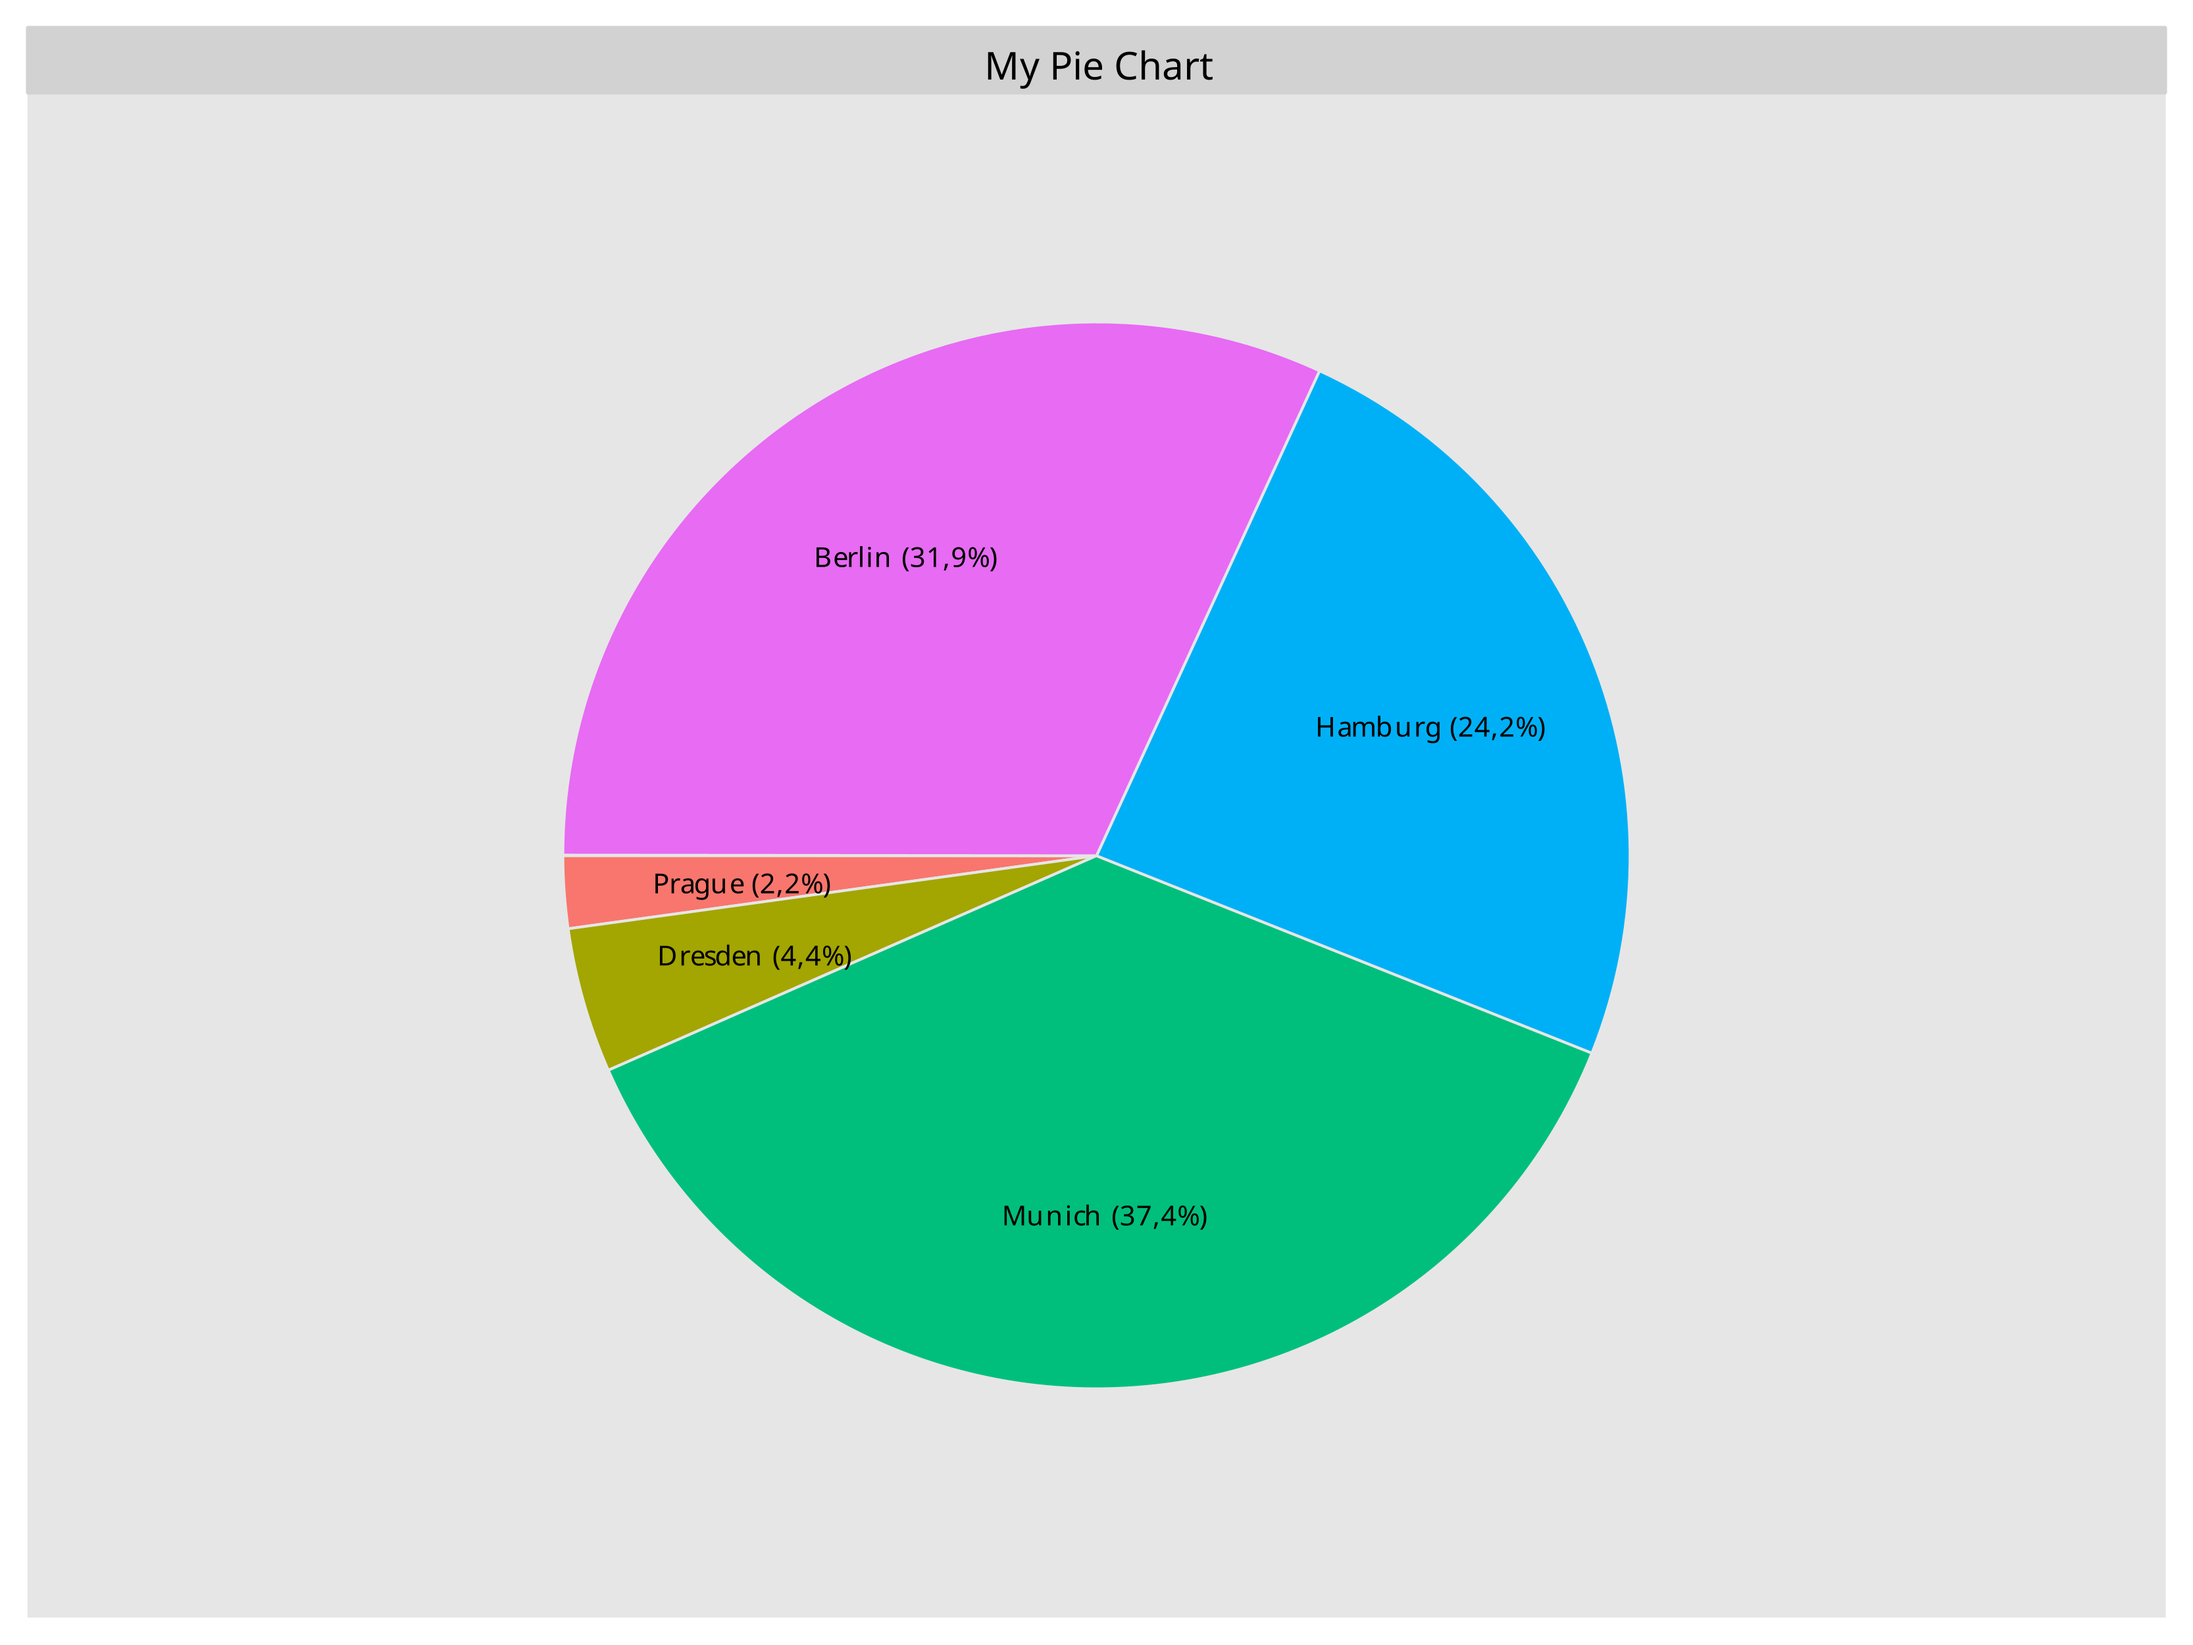
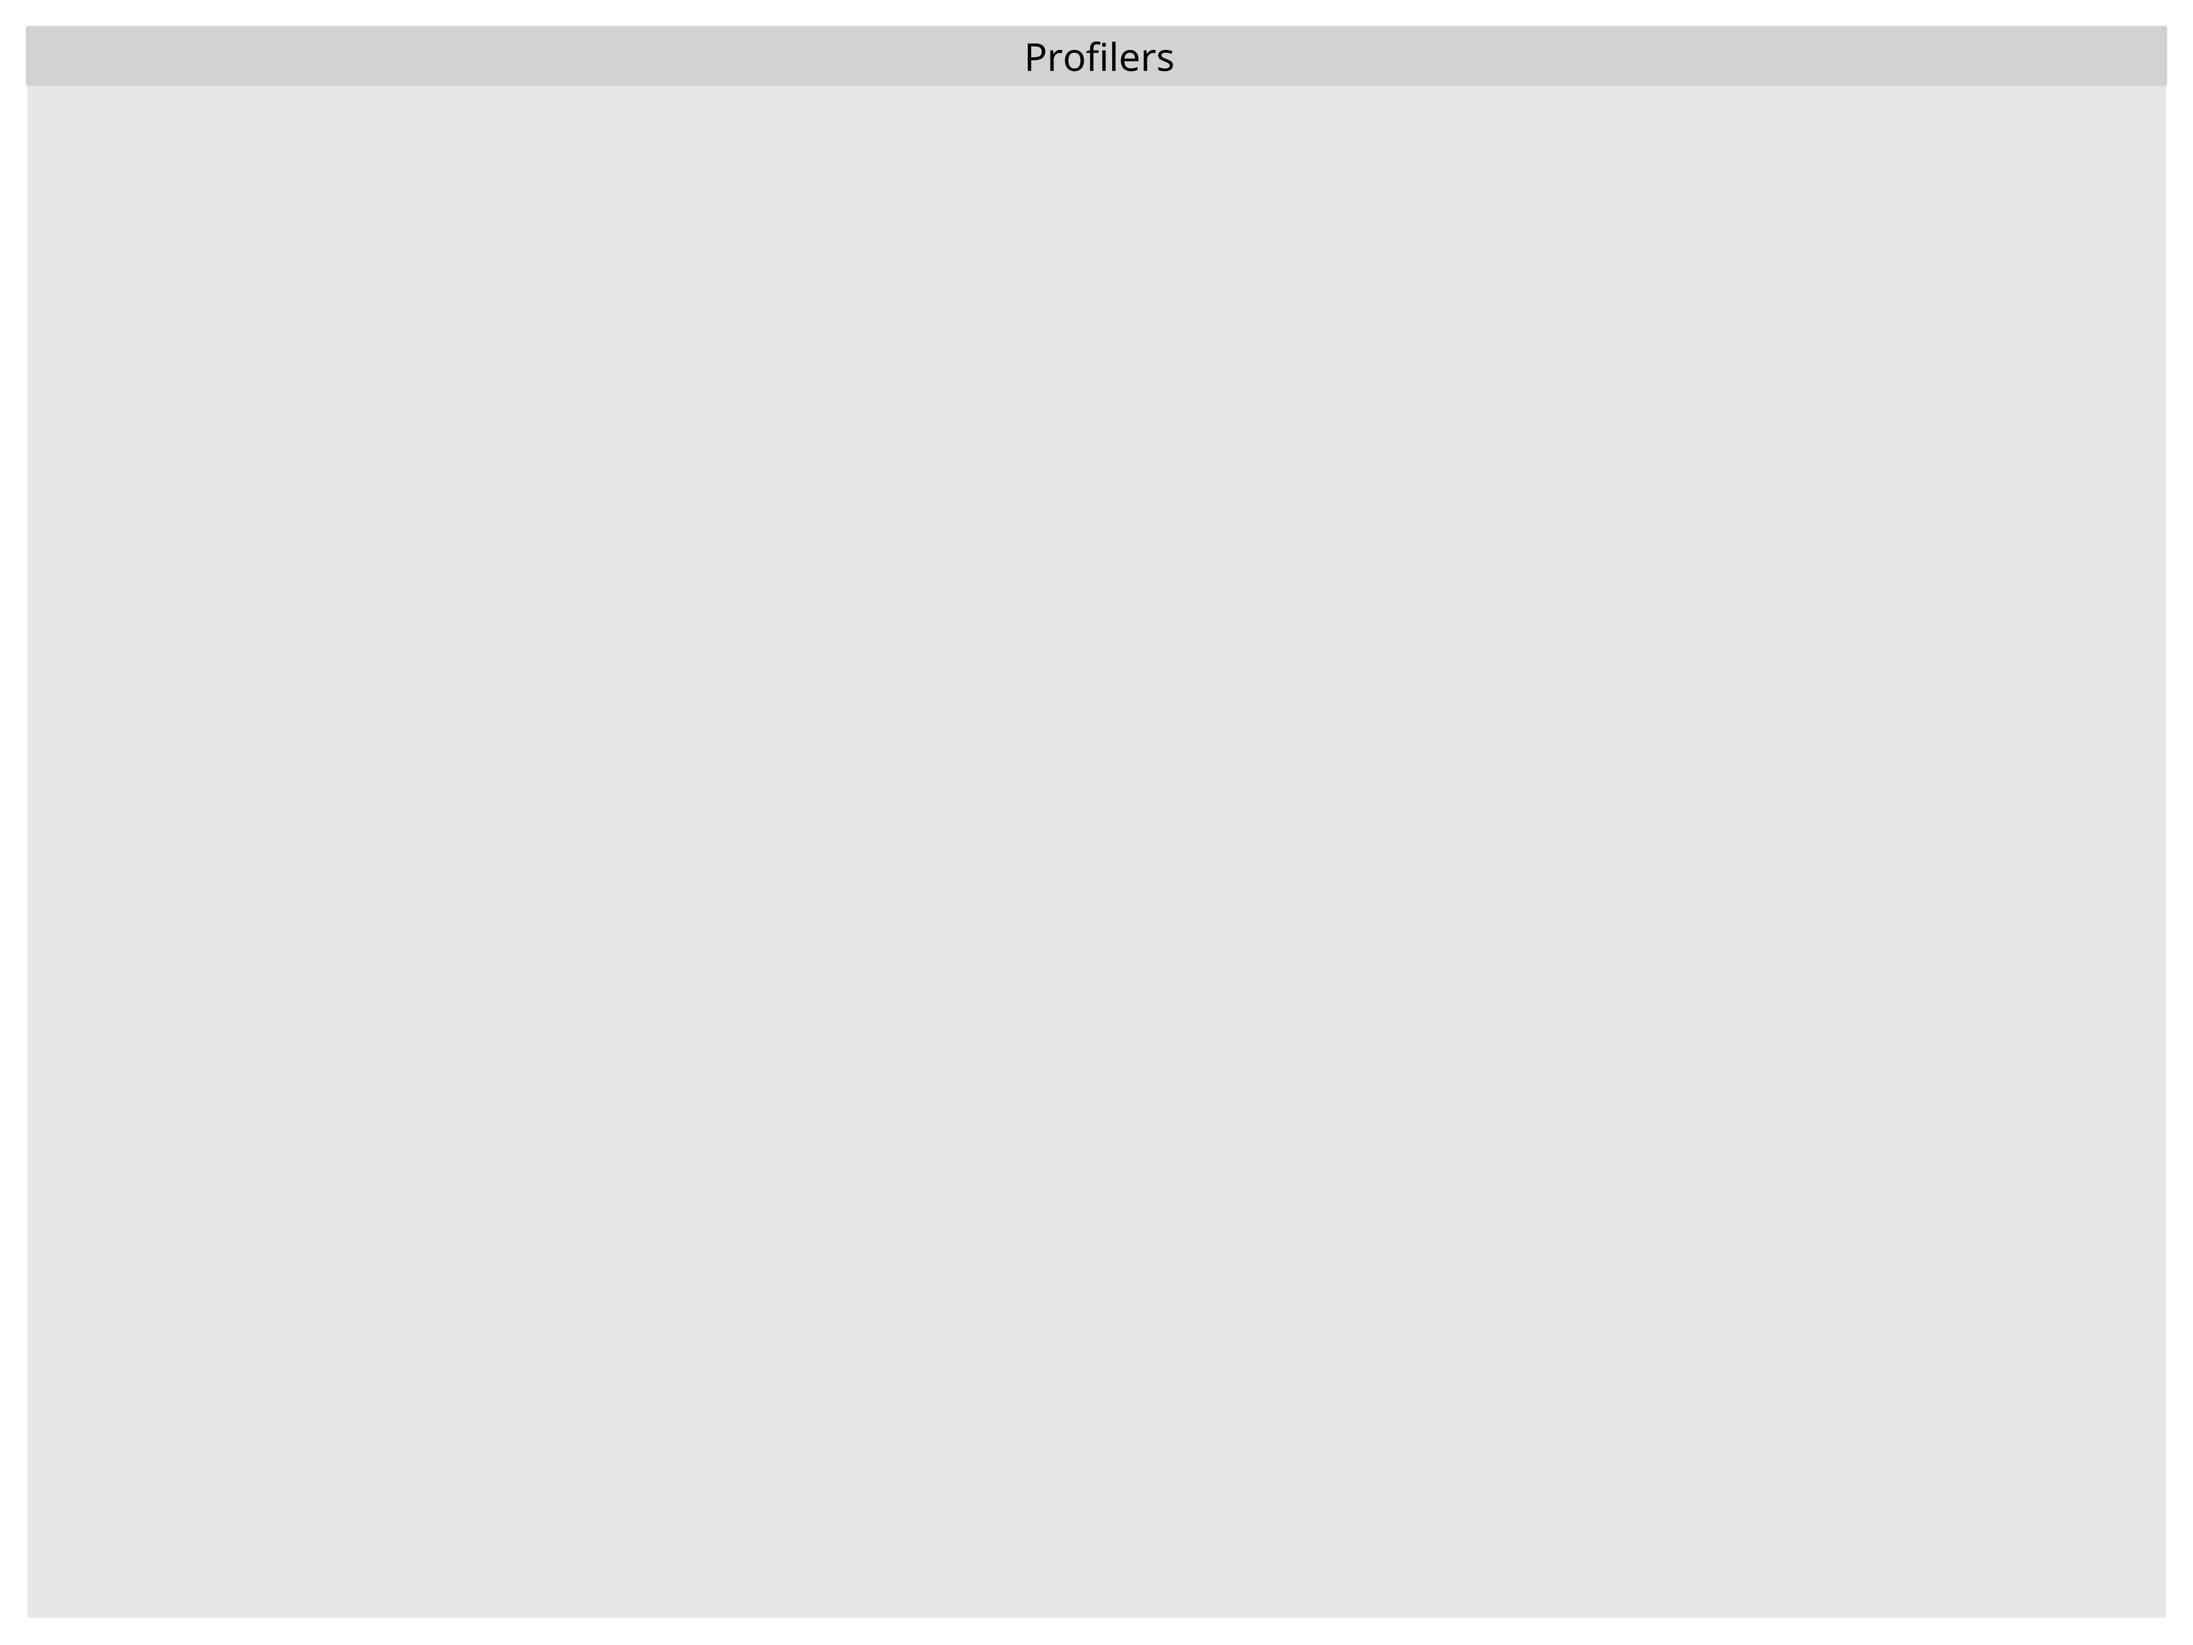
Añadido el filtro de piechart

Changed region(s): [[0.2496, 0.1872, 0.7489, 0.8424], [0.4368, 0.0312, 0.5617, 0.0624]]

diff --git a/src/Engine/Debug/Profiler.java b/src/Engine/Debug/Profiler.java
@@ -10,6 +10,7 @@ import org.knowm.xchart.BitmapEncoder;
 import org.knowm.xchart.BitmapEncoder.BitmapFormat;
 import org.knowm.xchart.PieChart;
 import org.knowm.xchart.PieChartBuilder;
+import org.knowm.xchart.style.PieStyler.LabelType;
 import org.knowm.xchart.style.Styler.ChartTheme;
 
 import Engine.Colors;
@@ -26,7 +27,7 @@ public class Profiler {
     static String title ="┃  Profiler:";
 
     static String filter = "All";
-    private static int measuresTop = 100; 
+    private static int measuresTop = 30; 
 
     public static void setProfilerMode(boolean mode){Display = mode;}
     public  static boolean getProfilerMode(){return Display;}
@@ -35,7 +36,7 @@ public class Profiler {
     public static boolean getFPSMode(){return showFPS;}
     public static String getFPS(){
         DecimalFormat formater = new DecimalFormat("#.##");
-        return "FPS: " + formater.format((float)1000/getLastData("TickTime")) + "/" + Engine.frameTime();
+        return "FPS: " + formater.format((float)1000/getLastData("TickTime")) + "/" + formater.format((float)1000/Engine.frameTime());
     }
 
     public static void Start(){
@@ -84,7 +85,7 @@ public class Profiler {
         if (f.toLowerCase().equals("all")){return ProfileData;}
         ArrayList<ProfileMeasure> FilteredData = new ArrayList<>();
         for (ProfileMeasure p: ProfileData){
-            if (p.getType().toLowerCase().equals(f)){FilteredData.add(p);}
+            if (p.getType().toLowerCase().equals(f.toLowerCase())){FilteredData.add(p);}
         }
         return FilteredData;
     }
@@ -109,24 +110,25 @@ public class Profiler {
     }
 
     public static void ExportPieChart(String filepath, String filter) throws Exception{
-            // Create Chart
-        PieChart chart = new PieChartBuilder().width(800).height(600).title("My Pie Chart").theme(ChartTheme.GGPlot2).build();
+        PieChart chart = new PieChartBuilder().width(800).height(600).title("Profilers").theme(ChartTheme.GGPlot2).build();
 
-        // Customize Chart
+
         chart.getStyler().setLegendVisible(false);
         chart.getStyler().setPlotContentSize(.7);
+        chart.getStyler().setLabelType(LabelType.NameAndPercentage);
+        chart.getStyler().setLabelsDistance(1.15);
         chart.getStyler().setStartAngleInDegrees(90);
-
-        // Series
-        chart.addSeries("Prague", 2);
-        chart.addSeries("Dresden", 4);
-        chart.addSeries("Munich", 34);
-        chart.addSeries("Hamburg", 22);
-        chart.addSeries("Berlin", 29);
+        ArrayList<ProfileMeasure> measures = getListByFilter(filter);
+        for(ProfileMeasure measure : measures){
+            chart.addSeries(measure.getTag(), measure.getLastTimeData());
+        }
 
         BitmapEncoder.saveBitmapWithDPI(chart, filepath, BitmapFormat.PNG, 300);
     }
 
+    public static void ExportPieChart(String filepath) throws Exception{
+        ExportPieChart(filepath, getFilter());
+    }
 
     public static String ProfilerToString(){
         try{

diff --git a/src/Engine/Engine.java b/src/Engine/Engine.java
@@ -18,8 +18,7 @@ public class Engine {
             updateSize();
             Profiler.Start();
             Keyboard.Start();
-            MenuActual = MenuInicial;
-            MenuActual.Start();
+            SetMenu(MenuInicial);
             Tick Ticker = new Tick();
             Ticker.start();
         }
@@ -49,7 +48,12 @@ public class Engine {
 
     public static int frameTime(){return tick;};
     public static void SetFrameTime(int ms){tick = ms;}
-    public static void SetMenu(Menu newMenu){MenuActual = newMenu;clearConsole(); MenuActual.Start();}
+    
+    public static void SetMenu(Menu newMenu){
+        MenuActual = newMenu;
+        clearConsole();
+        MenuActual.Start();
+    }
     public static String Draw(){return MenuActual.Frame();}
     public static void GetInput() throws Exception{
         Keyboard.DetectInput();

diff --git a/src/Examples/LoadMenu.java b/src/Examples/LoadMenu.java
@@ -3,6 +3,8 @@ package Examples;
 import Engine.Engine;
 import Engine.Keyboard;
 import Engine.Menu;
+import Engine.Debug.Debug;
+import Engine.Debug.Profiler;
 
 public class LoadMenu extends Menu {
     int pos = 0;
@@ -30,5 +32,19 @@ public class LoadMenu extends Menu {
     public void Update() {
         if (Keyboard.IsLastKeyOfType("Enter")){ Engine.SetMenu( new StartMenu());}
         Keyboard.Clear();
+    }
+
+    @Override
+    public void Start() {
+
+        Debug.Log("Hola");
+        try {
+        Debug.Log("Hola");
+        Profiler.ExportPieChart("test.png", "Advance");
+        } catch (Exception e) {
+
+            Debug.Log("Hola :c");
+            Debug.LogError(e.getMessage());
+        }
     }
 }

diff --git a/src/Examples/Start.java b/src/Examples/Start.java
@@ -10,11 +10,6 @@ public class Start
       Engine.setProfilerMode(true);
       Engine.setFPSMode(true);
       Profiler.setFilter("All");
-      try {
-         Profiler.ExportPieChart("test.png", "all");
-      } catch (Exception e) {
-         // TODO: handle exception
-      }
       Engine.Start(new StartMenu());
    }
 }

diff --git a/src/Examples/TestInput.java b/src/Examples/TestInput.java
@@ -16,4 +16,5 @@ public class TestInput extends Menu {
         if (Keyboard.getKeyType() != null ){pantalla = Keyboard.getKeyValue() + " -> " + Keyboard.getKeyCode() + " -> " + Keyboard.getKeyType();}
         Keyboard.Clear();
     }
+
 }
